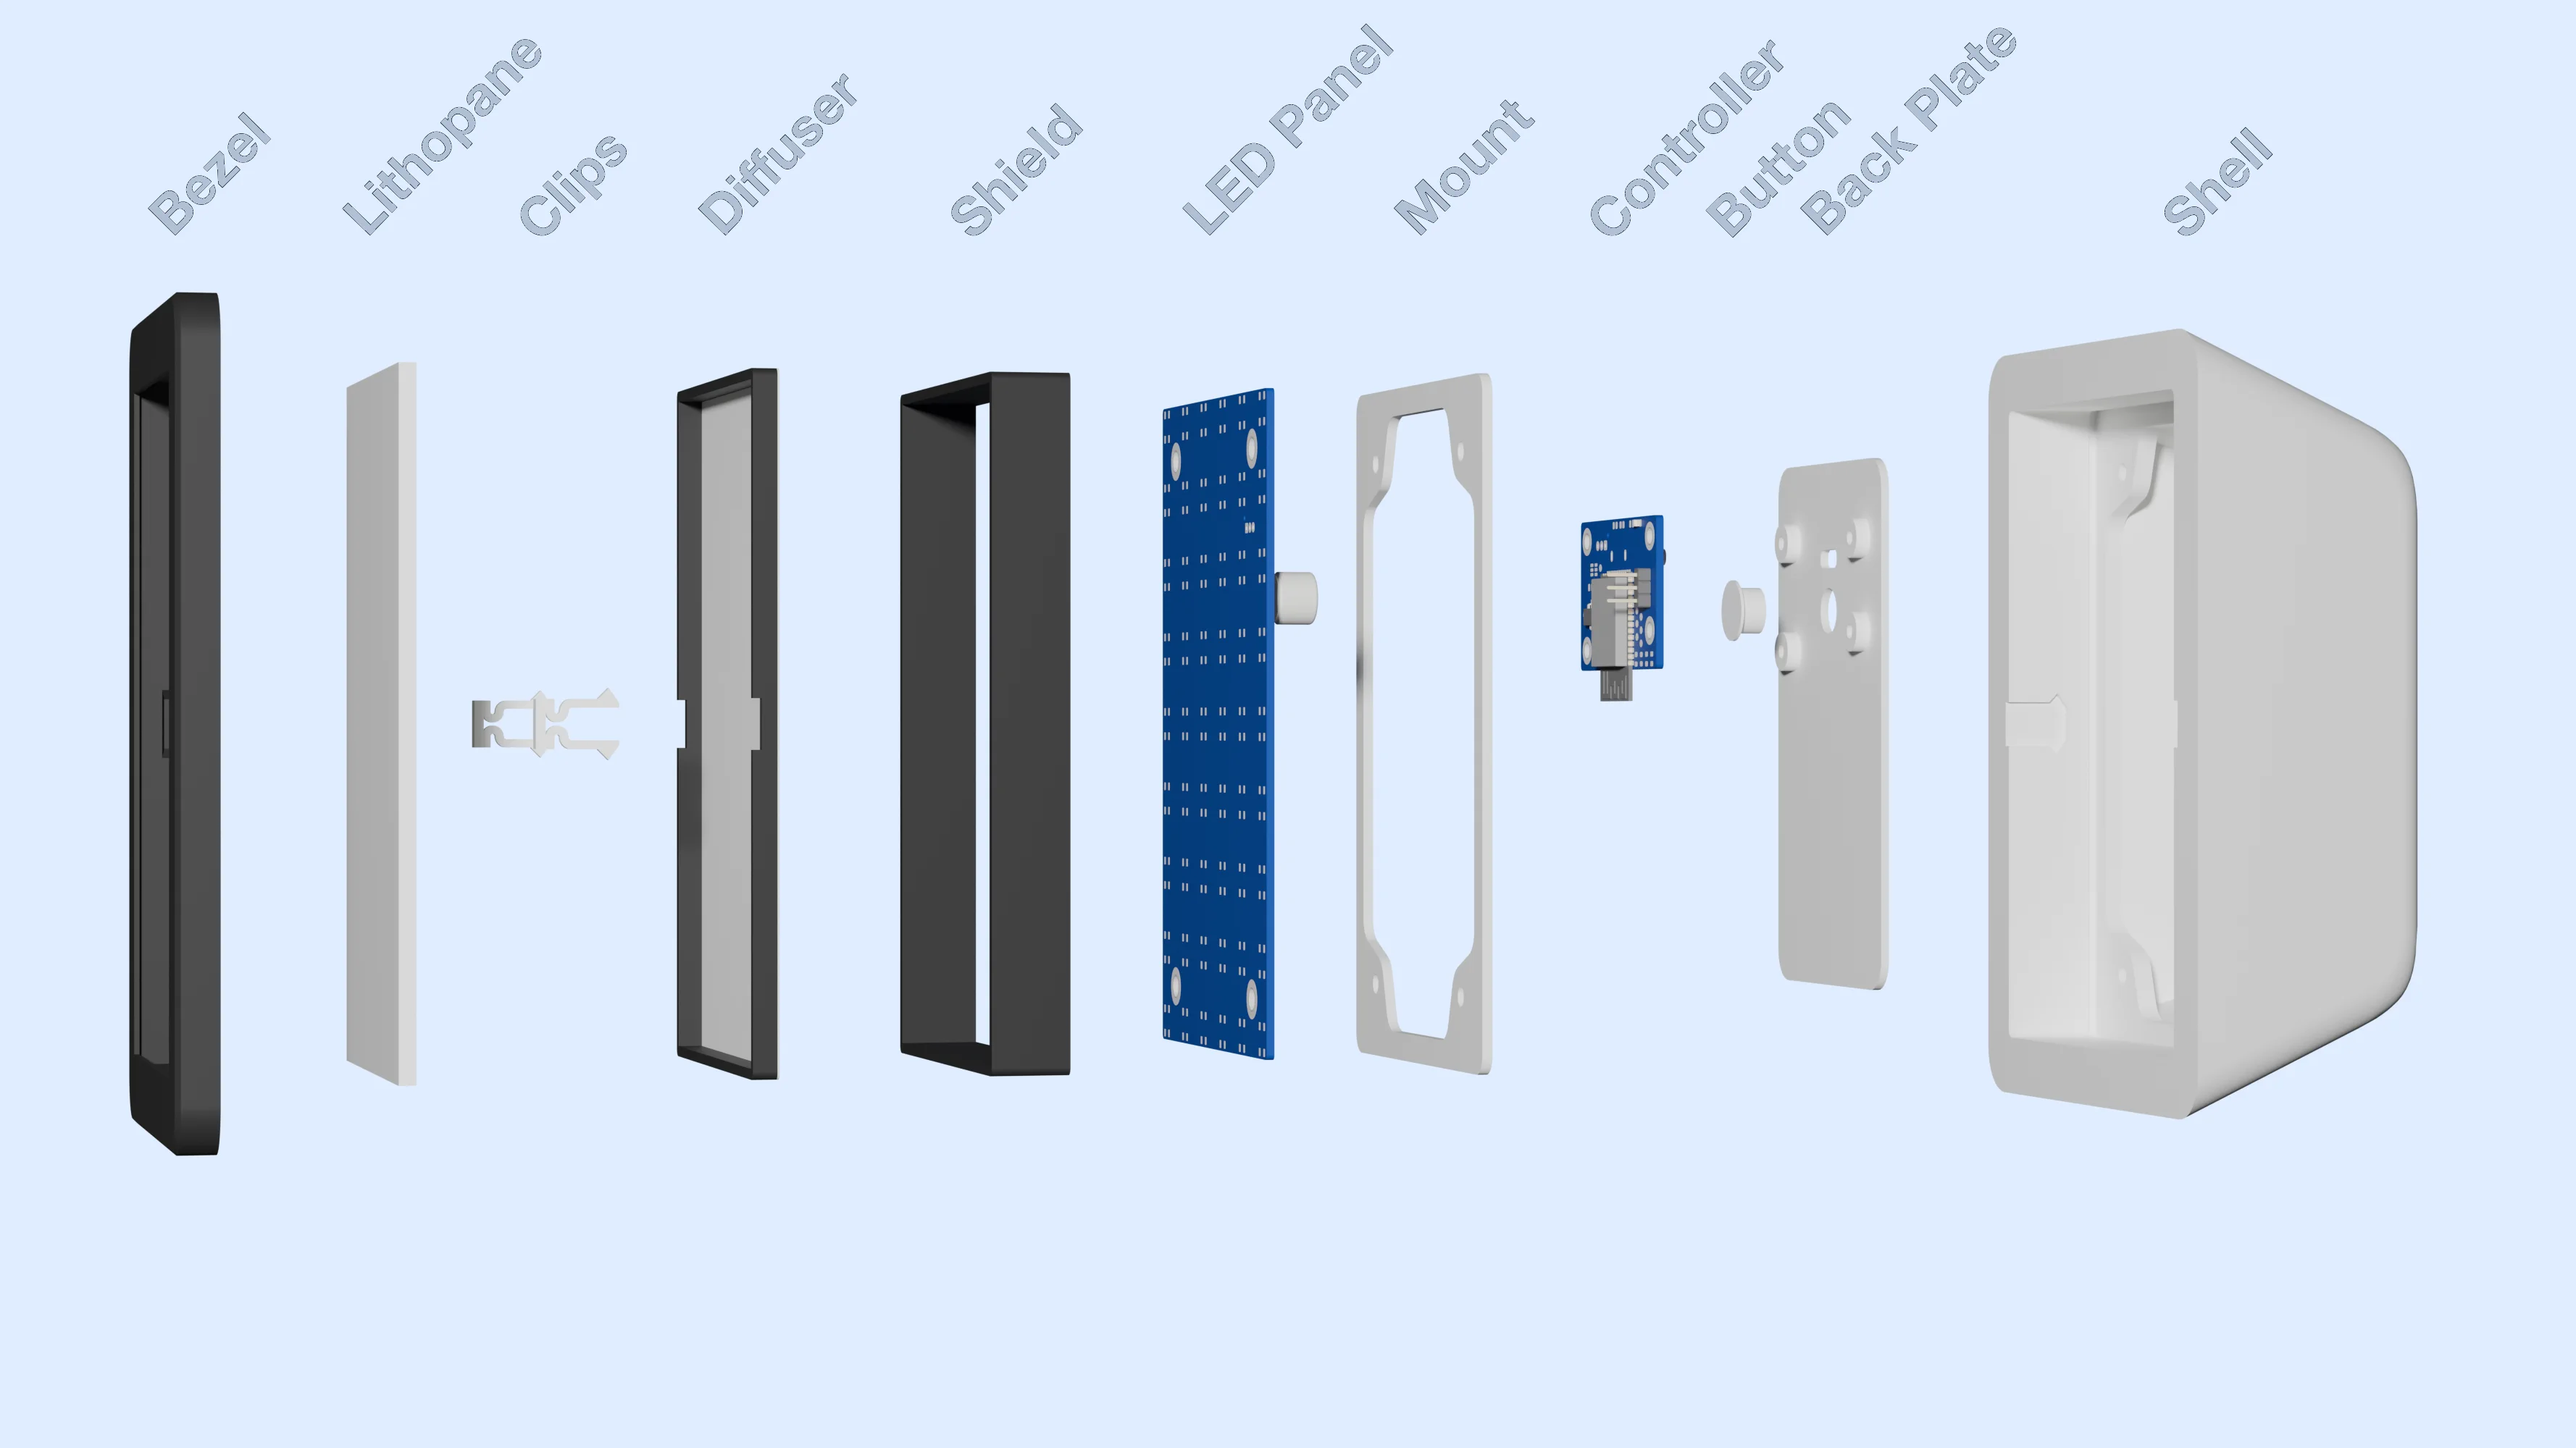
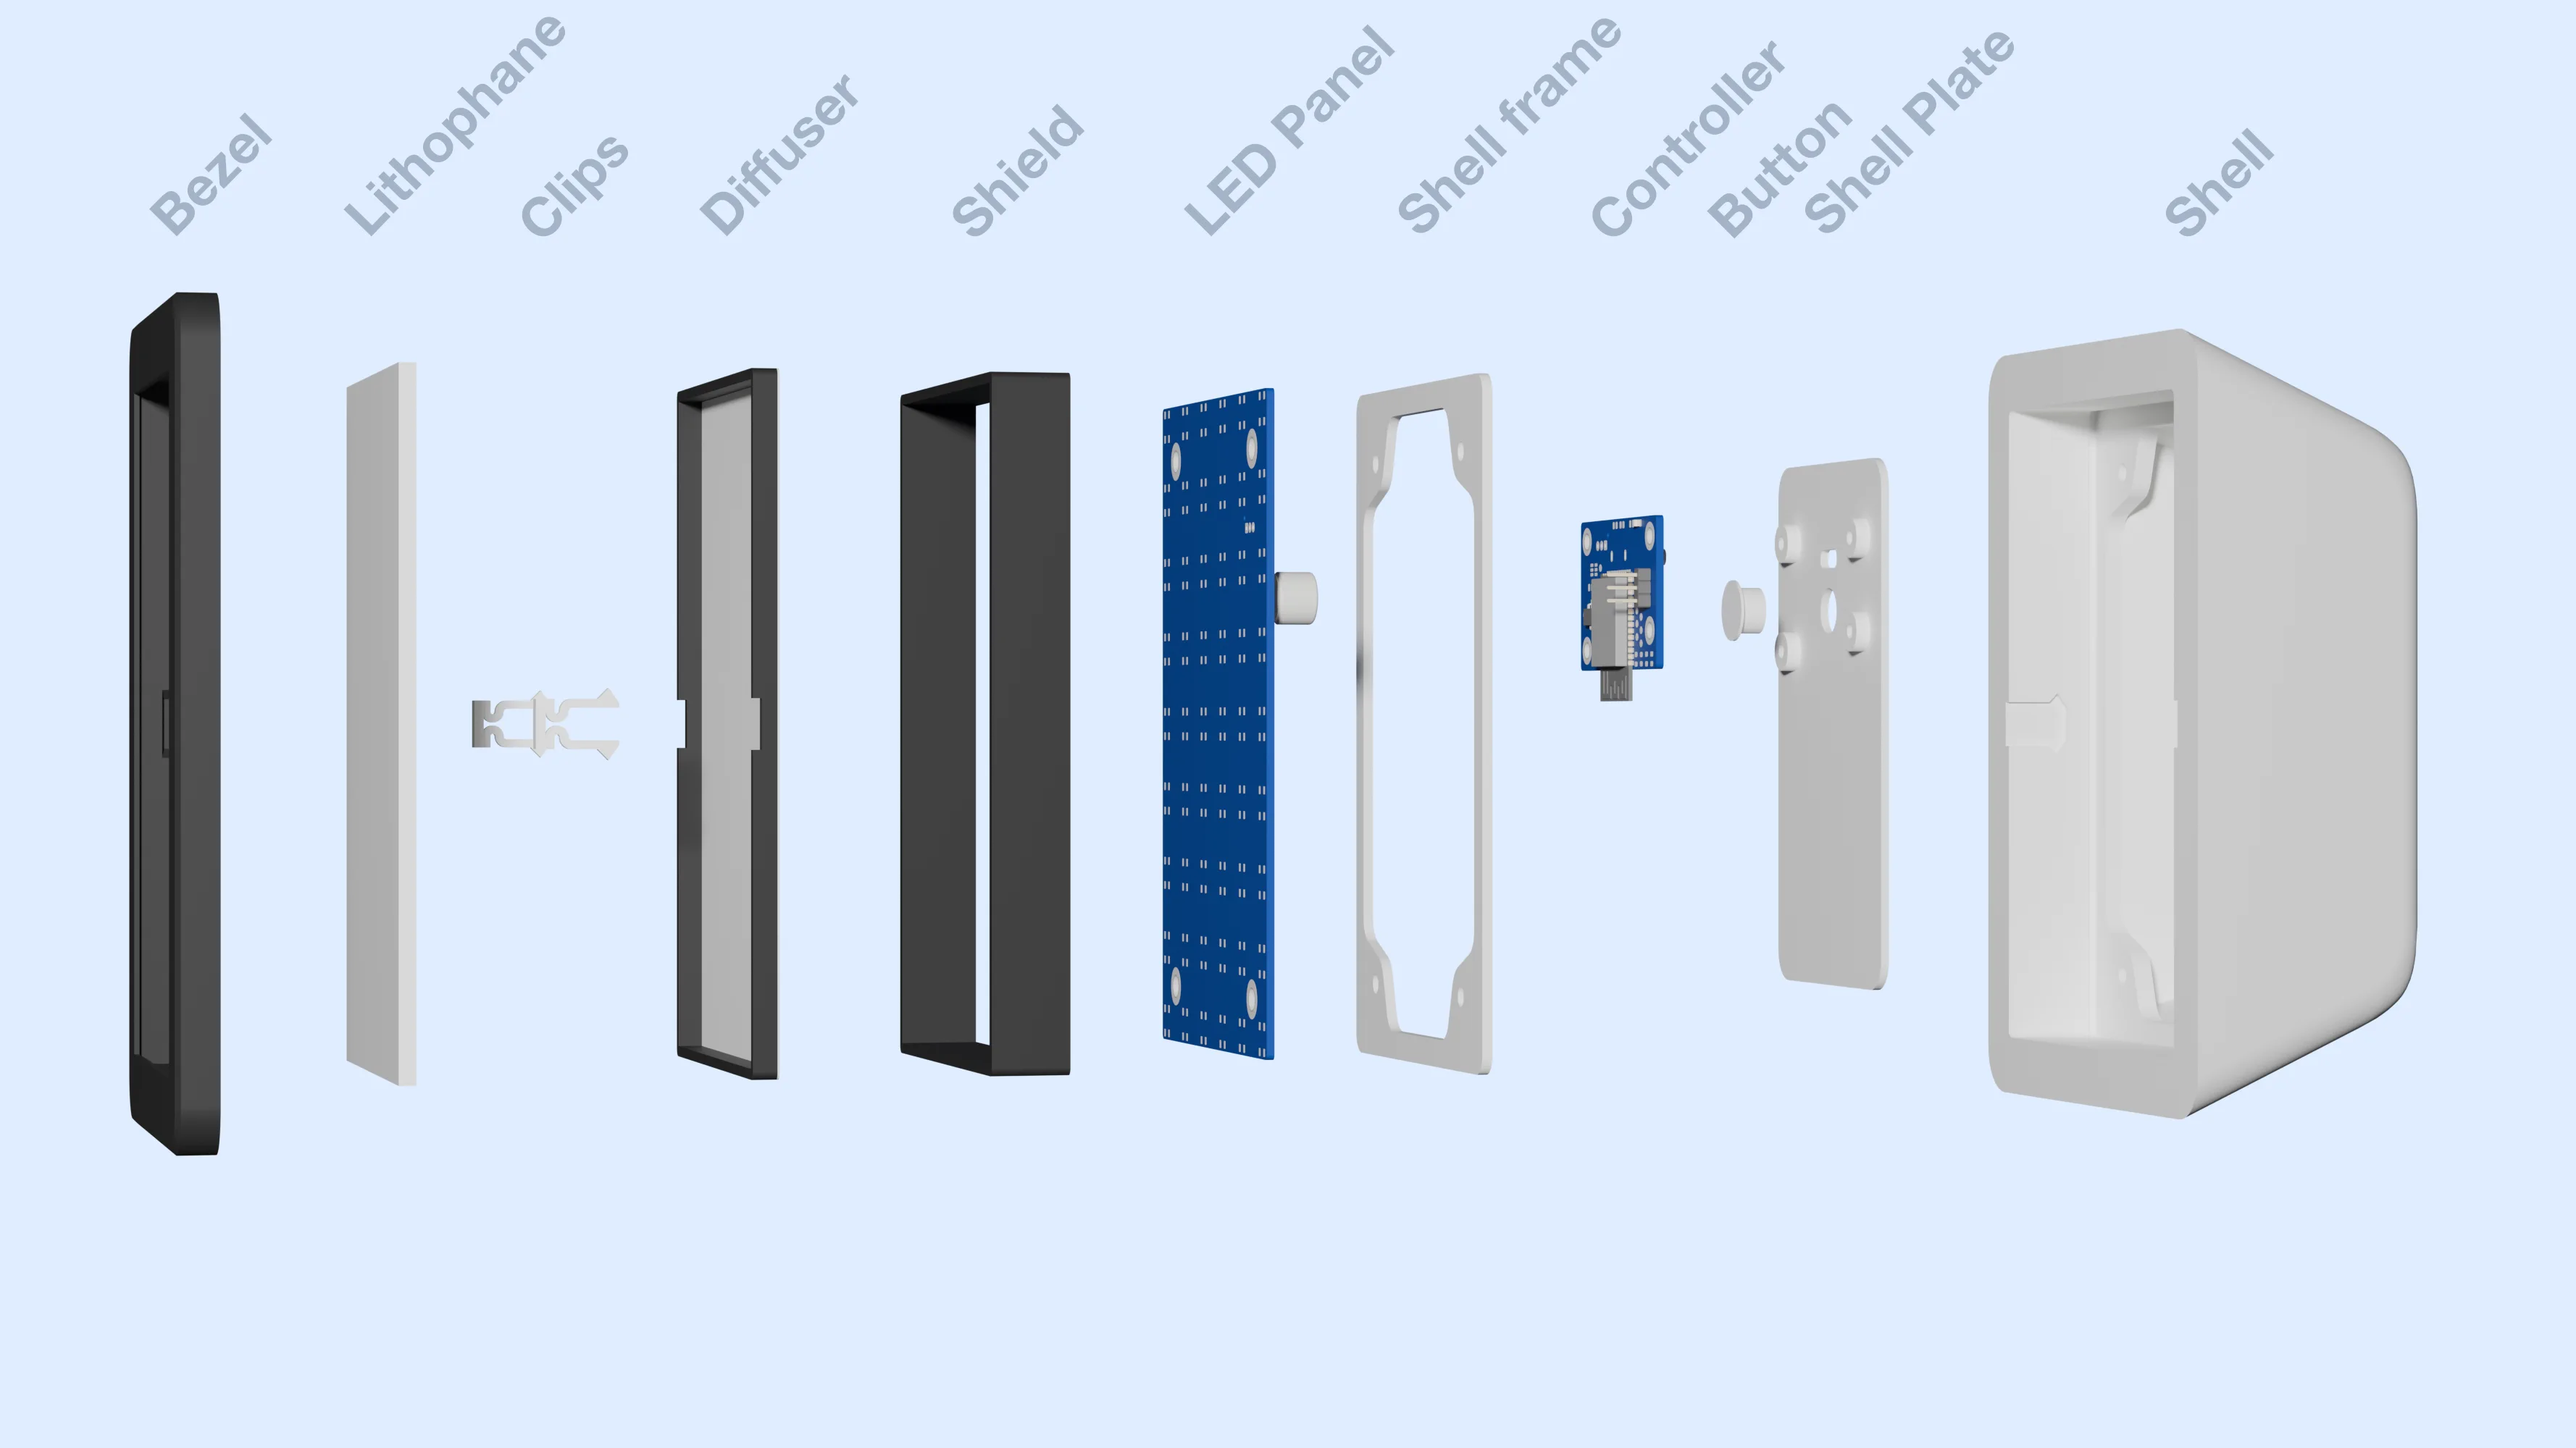
turns out I've been spelling Lithophane wrong this whole time...

diff --git a/app/src/routes/project/lightbox/+page.svelte b/app/src/routes/project/lightbox/+page.svelte
@@ -1,4 +1,4 @@
-<!-- Lithopane Lightbox -->
+<!-- Lithophane Lightbox -->
 
 <script lang="ts">
 	import ImageCols from '$lib/ImageCols.svelte';
@@ -37,11 +37,11 @@
 	}
 </script>
 
-<svelte:head><title>Lithopane Lightbox - Rishi Roy</title></svelte:head>
+<svelte:head><title>Lithophane Lightbox - Rishi Roy</title></svelte:head>
 
 <Title
-	title="Lithopane Lightbox"
-	description="A Bluetooth-controlled multi-color lightbox that illuminates a 3D lithopane to display an image"
+	title="Lithophane Lightbox"
+	description="A Bluetooth-controlled lightbox that displays an image by illuminating a 3D lithophane"
 	image={titleImg}
 />
 

diff --git a/app/src/routes/+page.svelte b/app/src/routes/+page.svelte
@@ -40,10 +40,10 @@
 		description="A trophy-shaped PCB with battery-powered lighting. Decorated with vector-defined copper regions, solder mask exclusions, and silkscreen."
 	/>
 	<ProjectCard
-		title="Lithopane Lightbox"
+		title="Lithophane Lightbox"
 		path="{base}/project/lightbox"
 		thumbnail={lightboxThumb}
-		description="A Bluetooth-controlled LED lightbox that displays an image by illuminating a 3D lithopane"
+		description="A Bluetooth-controlled LED lightbox that displays an image by illuminating a 3D lithophane"
 	/>
 	<ProjectCard
 		title="CAN Tester"
